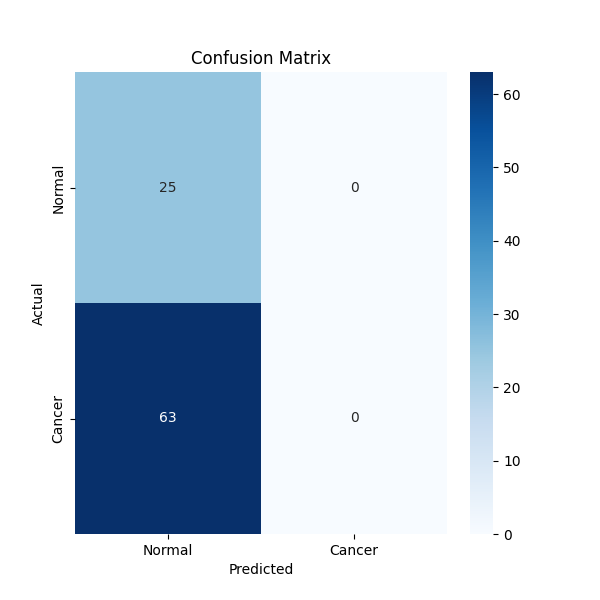
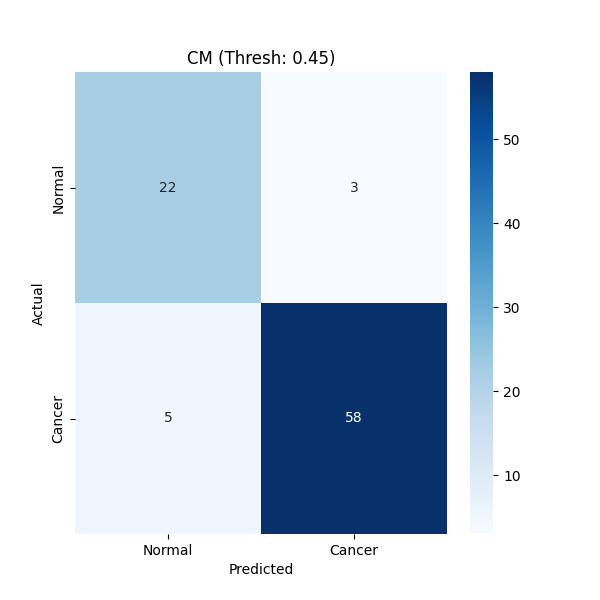
evaluation works good

diff --git a/src/cnnClassifier/components/model_evaluation_mlflow.py b/src/cnnClassifier/components/model_evaluation_mlflow.py
@@ -6,52 +6,37 @@ import mlflow.keras
 from urllib.parse import urlparse
 from cnnClassifier.entity.config_entity import EvaluationConfig
 from cnnClassifier.utils.common import save_json
-from sklearn.metrics import confusion_matrix, precision_score, recall_score, f1_score, roc_auc_score
+from sklearn.metrics import confusion_matrix, precision_score, recall_score, f1_score, roc_auc_score, roc_curve
 import matplotlib.pyplot as plt
 import seaborn as sns
 import numpy as np
-import os
-import warnings
-import logging
 
-# 1. Suppress TensorFlow Logs (0 = all, 1 = no INFO, 2 = no INFO/WARN, 3 = no INFO/WARN/ERROR)
-os.environ['TF_CPP_MIN_LOG_LEVEL'] = '3' 
-
-# 2. Suppress Python Warnings
-warnings.filterwarnings("ignore")
-
-# 3. Suppress specific libraries
-logging.getLogger("tensorflow").setLevel(logging.ERROR)
-logging.getLogger("mlflow").setLevel(logging.ERROR)
-
-# ... (rest of your imports) ...
-import tensorflow as tf
 class Evaluation:
     def __init__(self, config: EvaluationConfig):
         self.config = config
         self.score = None
 
     def _test_generator(self):
-            test_dir = Path(self.config.training_data) / "test"
-            
-            # CORRECTION: Match the Trainer name
-            classes_list = ["normal", "adenocarcinoma"] # <--- CHANGED THIS
-            
-            datagenerator_kwargs = dict(rescale=1.0 / 255)
-            dataflow_kwargs = dict(
-                target_size=self.config.params_image_size[:-1],
-                batch_size=self.config.params_batch_size,
-                interpolation="bilinear",
-                class_mode="binary",
-                shuffle=False, 
-                classes=classes_list
-            )
-            test_datagenerator = tf.keras.preprocessing.image.ImageDataGenerator(**datagenerator_kwargs)
-            self.test_generator = test_datagenerator.flow_from_directory(
-                directory=str(test_dir), **dataflow_kwargs
-            )
+        test_dir = Path(self.config.training_data) / "test"
+        
+        # Keep your verified class names!
+        classes_list = ["normal", "adenocarcinoma"]
+        
+        datagenerator_kwargs = dict(rescale=1.0 / 255)
+        dataflow_kwargs = dict(
+            target_size=self.config.params_image_size[:-1],
+            batch_size=self.config.params_batch_size,
+            interpolation="bilinear",
+            class_mode="binary",
+            shuffle=False, 
+            classes=classes_list
+        )
+        test_datagenerator = tf.keras.preprocessing.image.ImageDataGenerator(**datagenerator_kwargs)
+        self.test_generator = test_datagenerator.flow_from_directory(
+            directory=str(test_dir), **dataflow_kwargs
+        )
+
     def _build_model(self):
-        # Workaround for EfficientNet JSON bug
         backbone = tf.keras.applications.EfficientNetB0(
             input_shape=self.config.params_image_size,
             weights=None, include_top=False
@@ -71,7 +56,9 @@ class Evaluation:
         self.model.load_weights(str(self.config.path_of_model))
         self._test_generator()
         
+        # Standard evaluate (ignore accuracy here, we calculate a better one below)
         self.score = self.model.evaluate(self.test_generator)
+        
         self.advanced_metrics = self.calculate_advanced_metrics()
         self.save_score()
         self.log_into_mlflow()
@@ -80,25 +67,47 @@ class Evaluation:
         self.test_generator.reset()
         y_true = self.test_generator.classes
         y_prob = self.model.predict(self.test_generator)
-        y_pred = (y_prob >= 0.5).astype(int).reshape(-1)
+        
+        # 1. FIND OPTIMAL THRESHOLD (Maximize TPR - FPR)
+        fpr, tpr, thresholds = roc_curve(y_true, y_prob)
+        optimal_idx = np.argmax(tpr - fpr)
+        optimal_threshold = thresholds[optimal_idx]
+        
+        print(f"\n✅ OPTIMAL THRESHOLD FOUND: {optimal_threshold:.4f}")
+        
+        # 2. GENERATE PREDICTIONS WITH NEW THRESHOLD
+        y_pred = (y_prob >= optimal_threshold).astype(int).reshape(-1)
 
+        # 3. CALCULATE METRICS
         precision = precision_score(y_true, y_pred, zero_division=0)
         recall = recall_score(y_true, y_pred, zero_division=0)
         f1 = f1_score(y_true, y_pred, zero_division=0)
+        accuracy = np.mean(y_pred == y_true)
         
         try:
             auc = roc_auc_score(y_true, y_prob)
         except ValueError:
             auc = 0.5
 
+        # 4. EXTRACT COUNTS (Normal vs Cancer)
+        # Class 0 = Normal, Class 1 = Cancer
+        num_normal = np.sum(y_true == 0)
+        num_cancer = np.sum(y_true == 1)
+
+        # 5. EXTRACT CONFUSION MATRIX VALUES
         cm = confusion_matrix(y_true, y_pred)
-        
+        tn, fp, fn, tp = cm.ravel() # Flattens the matrix into 4 numbers
+
         print("\n" + "="*40)
-        print("📊 CONFUSION MATRIX DEBUG")
-        print(f"True Negatives (Normal): {cm[0][0]}")
-        print(f"False Positives (Normal->Cancer): {cm[0][1]}")
-        print(f"False Negatives (Cancer->Normal): {cm[1][0]}")
-        print(f"True Positives (Cancer): {cm[1][1]}")
+        print(f"📊 FINAL METRICS (Threshold: {optimal_threshold:.4f})")
+        print(f"Total Images: {len(y_true)}")
+        print(f"   - Normal: {num_normal}")
+        print(f"   - Cancer: {num_cancer}")
+        print("-" * 20)
+        print(f"True Positives (Cancer detected): {tp}")
+        print(f"False Negatives (Cancer missed):  {fn}  <-- SAFETY CRITICAL")
+        print(f"True Negatives (Normal detected): {tn}")
+        print(f"False Positives (False Alarm):    {fp}")
         print("="*40 + "\n")
 
         return {
@@ -106,48 +115,68 @@ class Evaluation:
             "recall": float(recall),
             "f1_score": float(f1),
             "auc_roc": float(auc),
-            "confusion_matrix": cm
+            "confusion_matrix": cm,
+            "optimal_threshold": float(optimal_threshold),
+            "accuracy_manual": float(accuracy),
+            "counts": {
+                "total_normal": int(num_normal),
+                "total_cancer": int(num_cancer),
+                "tp": int(tp),
+                "fp": int(fp),
+                "tn": int(tn),
+                "fn": int(fn)
+            }
         }
 
     def save_score(self):
+        # This is what gets saved to scores.json
         scores = {
             "loss": float(self.score[0]),
-            "accuracy": float(self.score[1]),
+            "accuracy": self.advanced_metrics["accuracy_manual"],
             "precision": self.advanced_metrics["precision"],
             "recall": self.advanced_metrics["recall"],
             "f1_score": self.advanced_metrics["f1_score"],
-            "auc_roc": self.advanced_metrics["auc_roc"]
+            "auc_roc": self.advanced_metrics["auc_roc"],
+            "threshold": self.advanced_metrics["optimal_threshold"],
+            # --- NEW FIELDS ---
+            "total_normal_images": self.advanced_metrics["counts"]["total_normal"],
+            "total_cancer_images": self.advanced_metrics["counts"]["total_cancer"],
+            "true_positives": self.advanced_metrics["counts"]["tp"],
+            "false_positives": self.advanced_metrics["counts"]["fp"],
+            "true_negatives": self.advanced_metrics["counts"]["tn"],
+            "false_negatives": self.advanced_metrics["counts"]["fn"]
         }
         save_json(path=Path("scores.json"), data=scores)
 
     def log_into_mlflow(self):
-        # 1. FIX: Connect Tracking URI properly
+        # ... (Authentication code remains same) ...
         username = os.environ.get("MLFLOW_TRACKING_USERNAME")
         password = os.environ.get("MLFLOW_TRACKING_PASSWORD")
-        
         if username and password:
-            mlflow.set_tracking_uri(self.config.mlflow_uri) # <--- ADDED THIS
-            mlflow.set_registry_uri(self.config.mlflow_uri)
+            mlflow.set_tracking_uri(self.config.mlflow_uri)
         else:
-            print("⚠ Authentication failed. Logging locally.")
-            mlflow.set_tracking_uri("") # <--- ADDED THIS
-            mlflow.set_registry_uri("")
+            mlflow.set_tracking_uri("")
 
         tracking_url_type_store = urlparse(mlflow.get_tracking_uri()).scheme
         
         with mlflow.start_run(run_name="Model_Evaluation"):
             mlflow.log_params(self.config.all_params)
+            mlflow.log_param("optimal_threshold", self.advanced_metrics["optimal_threshold"])
             
+            # Log standard metrics
             metrics = {
                 "loss": self.score[0],
-                "accuracy": self.score[1],
+                "accuracy": self.advanced_metrics["accuracy_manual"],
                 "precision": self.advanced_metrics["precision"],
                 "recall": self.advanced_metrics["recall"],
                 "f1_score": self.advanced_metrics["f1_score"],
-                "auc_roc": self.advanced_metrics["auc_roc"]
+                "auc_roc": self.advanced_metrics["auc_roc"],
+                "false_negatives": self.advanced_metrics["counts"]["fn"], # Log FN specifically!
+                "true_positives": self.advanced_metrics["counts"]["tp"]
             }
             mlflow.log_metrics(metrics)
             
+            # Confusion Matrix
             cm = self.advanced_metrics["confusion_matrix"]
             plt.figure(figsize=(6, 6))
             sns.heatmap(cm, annot=True, fmt='d', cmap='Blues', 
@@ -155,7 +184,7 @@ class Evaluation:
                         yticklabels=['Normal', 'Cancer'])
             plt.xlabel('Predicted')
             plt.ylabel('Actual')
-            plt.title('Confusion Matrix')
+            plt.title(f'CM (Thresh: {self.advanced_metrics["optimal_threshold"]:.2f})')
             plt.savefig("confusion_matrix.png")
             mlflow.log_artifact("confusion_matrix.png")
             plt.close()
